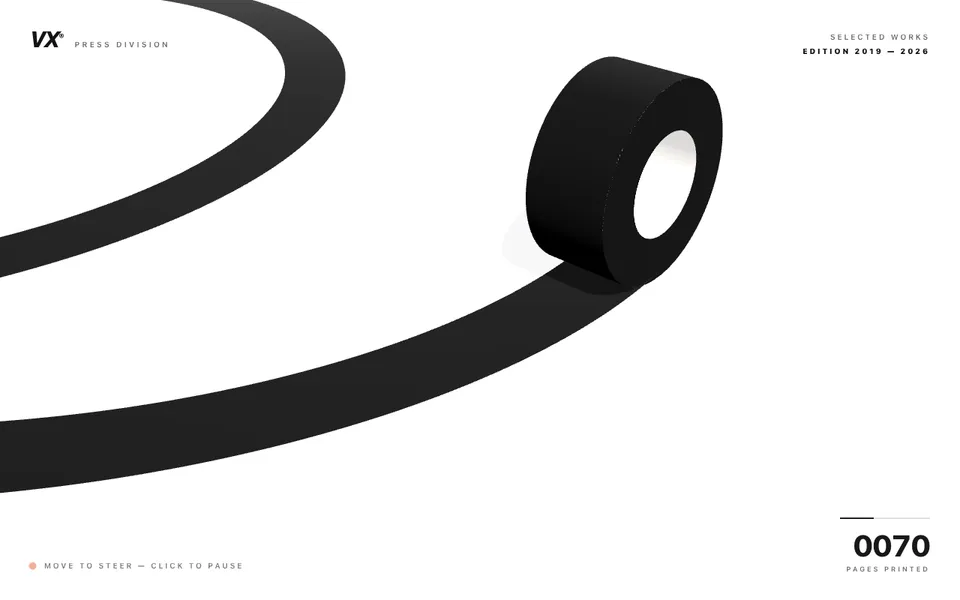
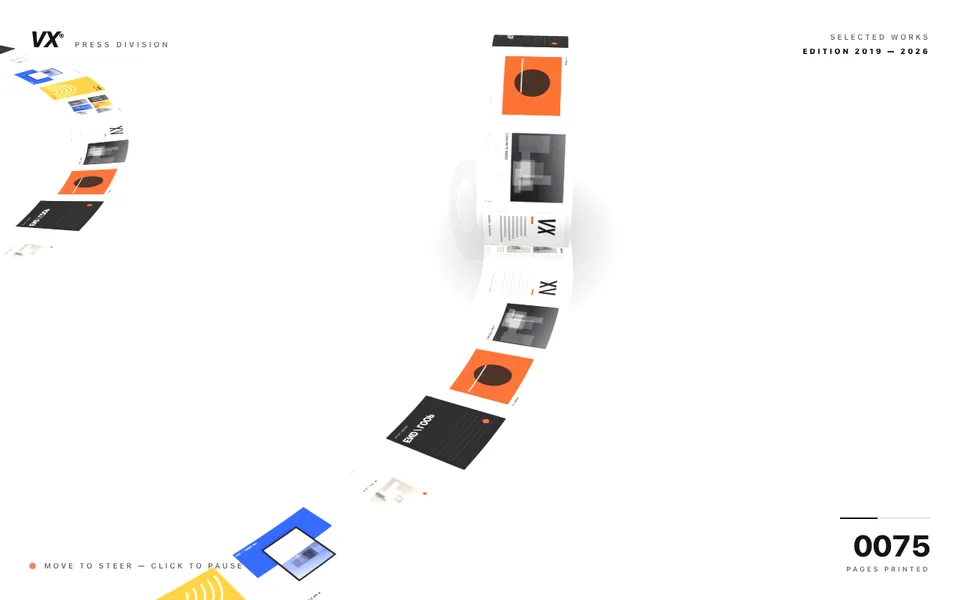
Rolling Paper: bundle Three.js/GSAP locally, re-record preview
The first recording used CDN-hosted Three.js which Playwright's headless
renderer loaded too late, causing the ribbon to record as black. Patching
the HTML at build time to reference local copies of the scripts makes the
render deterministic and removes the CDN dependency for the live build.

diff --git a/public/labs/rolling-paper/index.html b/public/labs/rolling-paper/index.html
@@ -211,8 +211,8 @@
       <span id="hintText">Move to steer &mdash; click to pause</span>
     </div>
 
-    <script src="https://cdnjs.cloudflare.com/ajax/libs/three.js/r128/three.min.js"></script>
-    <script src="https://cdnjs.cloudflare.com/ajax/libs/gsap/3.12.5/gsap.min.js"></script>
+    <script src="./three.min.js"></script>
+    <script src="./gsap.min.js"></script>
     <script>
       (function () {
         "use strict";